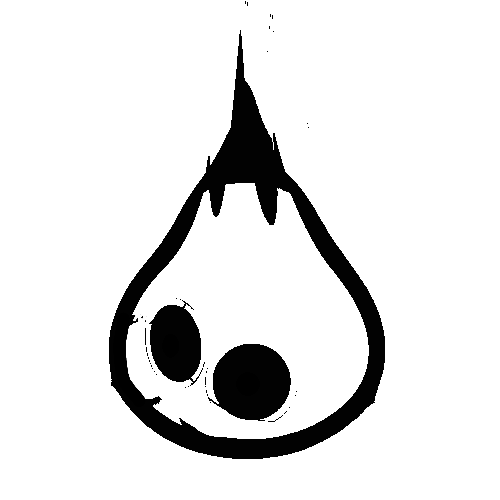
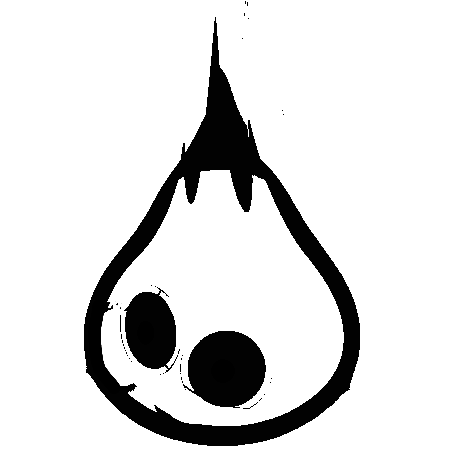
Main page particles

diff --git a/wisper-qml/qml/menu.qml b/wisper-qml/qml/menu.qml
@@ -9,23 +9,14 @@ Rectangle {
     property int blockSize: 32 * Android.dp
     property int toolButtonHeight: 32 * Android.dp
     property int menuButtonSpacing: 0 * Android.dp
+    property int emitterScale: 125 * Android.dp
 
     color: "black"
-    width: 400
-    height: 400
 
-    Text {
-        anchors.centerIn: parent
-        text: "coucou" + Android.dp
-        color: "white"
-        font.pixelSize : 50
-    }
-
-
-    /*ParticleSystem {
-        id: particleSystem
-        width: 350
-        height: 350
+    ParticleSystem {
+        id: wisperParticle
+        width: parent.width
+        height: parent.height / 1.5
         anchors.horizontalCenter: parent.horizontalCenter
 
         ImageParticle {
@@ -37,14 +28,38 @@ Rectangle {
 
         Emitter {
             anchors.fill: parent
-            emitRate: 2000
-            lifeSpan: 400
+            emitRate: 4000
+            lifeSpan: 500
             size: 10
             shape: MaskShape {
                 source: "qrc:///images/blue-wisper-shape.png"
             }
         }
-    }*/
+    }
+
+    ParticleSystem {
+        id: wisperTextParticle
+        width: parent.width
+        height: parent.height / 4
+        anchors.top: wisperParticle.bottom
+
+        ImageParticle {
+            source: "qrc:///particleresources/glowdot.png"
+            anchors.fill: parent
+            color: "#336666CC"
+            colorVariation: 0.0
+        }
+
+        Emitter {
+            anchors.fill: parent
+            emitRate: 4000
+            lifeSpan: 500
+            size: 10
+            shape: MaskShape {
+                source: "qrc:///images/text-wisper-shape.png"
+            }
+        }
+    }
 
     Image {
         id: bottomBar

diff --git a/wisper-qml/qml/Splash.qml b/wisper-qml/qml/Splash.qml
@@ -4,8 +4,8 @@ import "../js/android.js" as Android
 
 Rectangle {
     id: splash
-    width: 360
-    height: 360
+    width: 450
+    height: 750
     color: "#000000"
 
     onWidthChanged: mainLoader.item.width = splash.width
